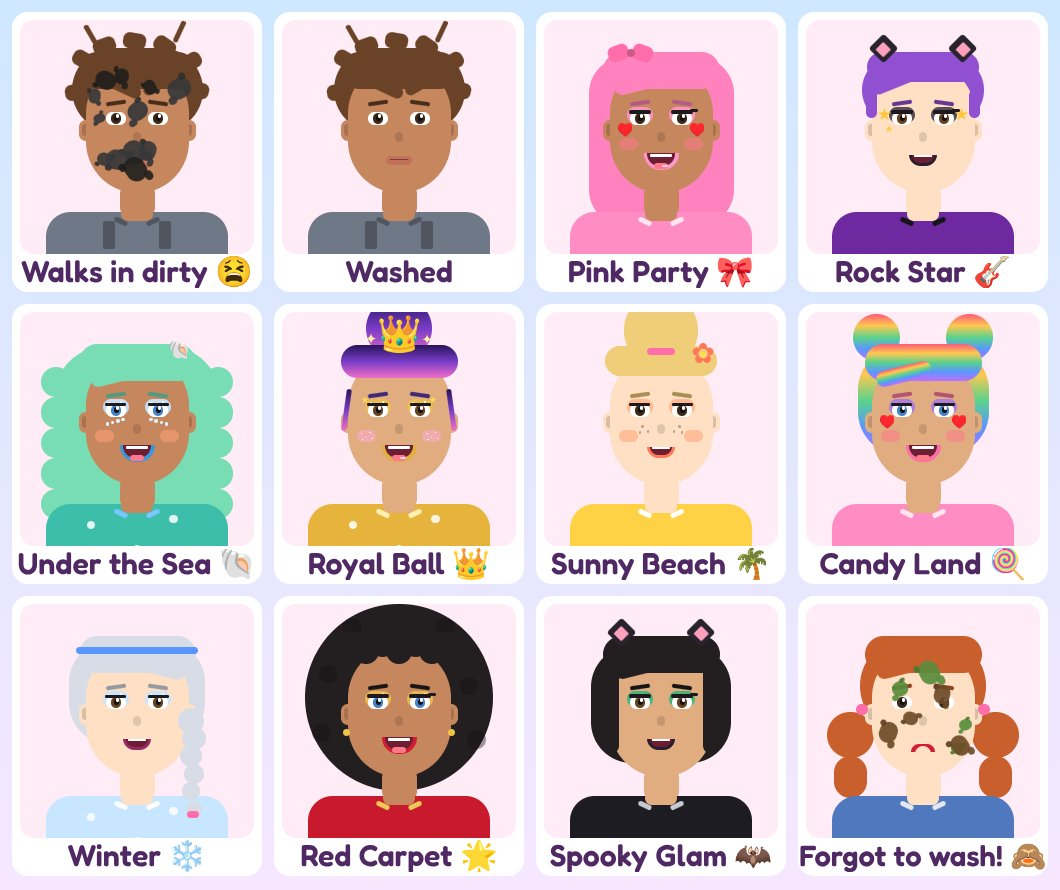
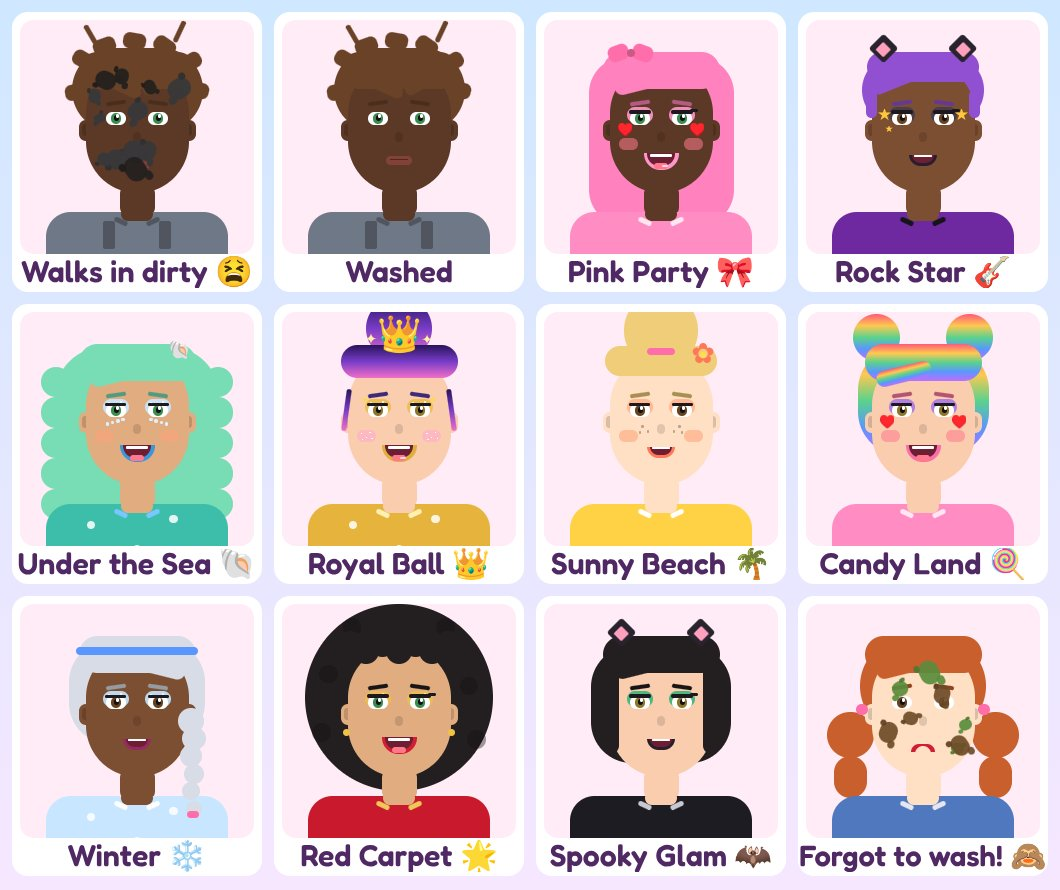
Glow Up Salon: weekly goal with prize clips, refreshed docs and screenshots
Claude-Session: https://claude.ai/code/session_017cAUGmngXjdPhrtqrqTn14

diff --git a/roblox/glow-up-salon/GAME_DESIGN.md b/roblox/glow-up-salon/GAME_DESIGN.md
@@ -1,18 +1,22 @@
 # 5 Minute Glow Up Salon: Game Design
 
-**Pitch:** Customers walk into your salon straight from their jobs at the shop, covered in grease, mud, paint and frosting. You get **5 minutes** to wash their face, do their hair and makeup, and dress them for the fashion show. Then they walk the runway, everyone cheers and votes, and the best stylist wins.
+**Pitch:** Customers walk into your salon straight from their jobs at the shop, covered in grease, mud, paint and frosting. You get **5 minutes** to wash their face, do their hair, makeup and nails, and dress them for the fashion show. Then they walk the runway, everyone cheers, and the best stylist wins.
 
-**Made for:** girls around 6–10. That means few words, big buttons, lots of feedback, and nothing scary or competitive in a mean way.
+**Made for:** girls around 6–10. That means few words, big buttons, lots of happy feedback, and nothing that shames a player in front of others.
 
 ![Looks](docs/face-preview.jpg)
 
-| Washing | Picking makeup | On a phone |
+| Washing | Makeup | Nails |
 |---|---|---|
-| ![](docs/screens/1-wash.jpg) | ![](docs/screens/2-makeup.jpg) | ![](docs/screens/3-phone.jpg) |
-
-| Runway (camera follows the client) | Winners' podium | Results |
-|---|---|---|
-| ![](docs/screens/4-runway.jpg) | ![](docs/screens/5-podium.jpg) | ![](docs/screens/6-results.jpg) |
+| ![](docs/screens/01-wash.jpg) | ![](docs/screens/02-makeup.jpg) | ![](docs/screens/03-nails.jpg) |
+| **Outfit colors & patterns** | **Halloween items** | **On a phone** |
+| ![](docs/screens/04-outfit-colors.jpg) | ![](docs/screens/05-halloween-items.jpg) | ![](docs/screens/06-phone.jpg) |
+| **Runway (camera follows)** | **Halloween runway** | **Christmas runway** |
+| ![](docs/screens/07-runway.jpg) | ![](docs/screens/08-halloween.jpg) | ![](docs/screens/09-christmas.jpg) |
+| **Podium** | **Results** | **Gift calendar** |
+| ![](docs/screens/10-podium.jpg) | ![](docs/screens/11-results.jpg) | ![](docs/screens/12-gift-calendar.jpg) |
+| **Look Book** | **Shop** | |
+| ![](docs/screens/13-lookbook.jpg) | ![](docs/screens/14-shop.jpg) | |
 
 *These pictures come from the play-test tool (`tools/playtest`), not Roblox Studio. In Roblox, lighting, fonts and 3D look a little different.*
 
@@ -20,36 +24,57 @@
 
 | Tori said | In the game |
 |---|---|
-| Makeup game | Makeup tab: 9 eyeshadows, 3 lash styles, 4 blushes and 9 lipsticks |
-| Do their hair / you get to do their hair too | Hair tab: 10 hairstyles + 11 hair colors. Clients show up with **messy** hair you have to fix |
-| They come in from the shop dirty, so they have to wash their face | Every client tells you where they've been ("I fixed cars at the auto shop all day. I'm SO greasy! 😫"). Pick 🧽 **Soap** and rub off the splats. ✨ pops when a splat comes off. Then 🚿 **Rinse** the bubbles (the game switches tools for you) |
-| Pay to get extra stuff | Coins you earn unlock new looks. Robux buys VIP items, 2x coins, runway effects and Super Soap |
-| Then you do a fashion show | Each client walks a 3D runway under a balloon arch, with your design on the big screen. The camera follows them, photographers flash, and everyone taps emoji cheers and votes 1–5 stars |
+| Makeup game | 💄 Makeup tab: eyeshadow, lashes, blush, lipstick. Plus a 💅 Nails station with polish and nail art |
+| Do their hair / you get to do their hair too | 💇 11 hairstyles and 20 hair colors (some only during holidays). Clients show up with **messy** hair you have to fix |
+| They come in from the shop dirty, so they have to wash their face | Every client says where they've been ("I fixed cars at the auto shop all day. I'm SO greasy! 😫"). Rub the splats off with 🧽 Soap (✨ pops), then 🚿 Rinse the bubbles. The game switches tools for you |
+| Pay to get extra stuff | Coins you earn unlock looks for free. Robux packs add extra looks and fun effects. Nothing paid is needed to win |
+| Then you do a fashion show | Clients walk a 3D runway under a balloon arch. The camera follows them, photographers flash, and everyone taps emoji cheers and hearts |
 | You only get 5 minutes to do everything | A "5 minutes! GO! 💨" splash, then one timer for the whole makeover. It turns red and pulses in the last 30 seconds |
 
 ## What makes it fun (and easy for little kids)
 
-- **The client reacts.** Their mouth changes from a frown 😫 (dirty) to a smile, then a big grin 😁. They talk in a speech bubble: "That tickles!", "Perfect for Pink Party! 😍", "This is my BEST look EVER! 💖" (with confetti).
-- **Happy hearts 💖💖💖🤍🤍** under the face fill up as the look gets better. It's the same score the judges use, so kids learn what works.
-- **⭐ theme stars** on items that match the show's theme. No reading needed.
-- **Glowing "do this next" tab**, plus a checklist (🧼 💇 💄 👗) that turns green and can be tapped to jump to that step.
-- **Every look is a preview.** Item cards show the client's own face wearing that item.
-- **Friendly results.** Everyone gets a pop-up ("✨ Great job!", "🏆 You WON!"), coins and tips from the judges, never a "you lost".
-- **Safe social play.** Players cheer with fixed emoji (😍👏🔥✨💖) and star votes. There's no typing.
-- **Coming back pays off.** A 🎁 daily gift (bigger for days in a row) and stylist levels (Newbie Stylist → Rising Star → Pro Stylist → Glam Queen → Superstar → Legendary), with a confetti pop-up when you level up.
+- **The client reacts.** Their mouth goes from a frown 😫 (dirty) to a smile, then a big grin 😁. They talk ("That tickles!", "Perfect for Halloween Party! 😍"). The **Happy 💖💖💖🤍🤍** meter fills up as the look gets better.
+- **⭐ theme stars** mark items that match the show's theme, so kids don't need to read. Every theme can be matched with free items (the play-test checks this).
+- **A glowing "do this next" tab**, plus a checklist that can be tapped.
+- **Every card is a preview:** the client's own face wearing that item.
+- **🎨 Pick your own outfit color** (20 colors) and a pattern (dots, stripes, hearts, stars, flowers).
+- **💅 Nails:** the left panel turns into the client's hand. Each nail sparkles as it's painted.
+- **Kind by design:**
+  - Votes are 💖 / 💖💖 / 💖💖💖, so nobody can give 1 star.
+  - Everyone's client is shown washed and smiling on the big screen and podium. The judges' tips are private.
+  - Results list the top 3 plus your own look, never a public last place.
+- **Safe social play:** emoji cheers and heart votes only. There's no typing.
+- **Something to do while waiting:** "🌸 Spritz perfume!" makes the client giggle.
+
+## Reasons to come back
+
+- **🎁 7-day gift calendar:** coins on days 1–6 and a special accessory on day 7 (Golden Bow, Rainbow Headband, Pearl Earrings). Missing a day **pauses** it and never resets it.
+- **🎯 Weekly goal:** play 5 shows in a week to win a hair clip (🍀 🦄 🌈 🍓).
+- **⭐ Stylist levels** (every 5 stars). Some levels unlock items: Butterfly Clip (Lv 2), Cotton Candy hair (Lv 3), Bubblegum Gloss (Lv 4), Star Dress (Lv 5), Rainbow Shimmer (Lv 6), Star Halo (Lv 8). Titles go from Newbie Stylist to Legendary Stylist.
+- **💞 Regular clients:** clients you've styled come back ("Hi again! It's me, Amara!"). Their 3rd, 5th and 10th visits make them best friends and give bonus coins.
+- **📖 Look Book:** your last 24 finished looks are saved, like a photo album.
+- **🎃 🍂 🎄 Holiday events** (turn on by date):
+
+  | Event | Dates |
+  |---|---|
+  | Halloween | Oct 10 – Nov 2 |
+  | Harvest Festival | Nov 3 – 30 |
+  | Christmas | Dec 1 – 31 |
+
+  Each event brings:
+  - a holiday fashion-show theme (about half the rounds)
+  - about 12 limited items: some free, some for coins, and VIP gowns
+  - holiday client stories (pumpkin goo, pie flour, gingerbread)
+  - decorations and lighting: pumpkins, bats and ghosts; autumn trees and hay bales; Christmas trees, presents and falling snow
+
+  Items a player unlocked during an event are theirs to keep.
 
 ## Round loop (everyone in the server plays together)
 
-1. **Intermission (20s):** the next theme and a 5-step how-to card. Players can browse the shop.
-2. **Makeover (5:00):** each player gets their own dirty client.
-   - 🧼 **Wash:** rub dirt with Soap, then Rinse the bubbles
-   - 💇 **Hair:** style + color
-   - 💄 **Makeup:** eyeshadow, lashes, blush, lipstick
-   - 👗 **Outfit:** pick something that fits the theme (dresses get a skirt on the runway)
-   - ✨ **Extras:** face art + accessory
-   - If every stylist taps **I'm Done!**, the show starts early.
-3. **Fashion Show (~9s per look):** the client walks the runway and twirls. Everyone else gives 1–5 stars (+2 coins for voting), and anyone can tap emoji cheers that float up on every screen.
-4. **Results (15s):** the top 3 stand on the podium. Each player gets a pop-up with their stars, judge tips and coins.
+1. **Intermission (20s):** next theme, event banner, weekly goal and a 5-step how-to card. Players can open the Shop or Look Book.
+2. **Makeover (5:00):** each player gets their own dirty client, with tabs 🧼 Wash, 💇 Hair, 💄 Makeup, 💅 Nails, 👗 Outfit, ✨ Extras. If every stylist taps **I'm Done!**, the show starts early.
+3. **Fashion Show (~9s per look):** the client walks the runway and twirls. Other players vote with hearts (+2 coins for voting), and anyone can tap emoji cheers.
+4. **Results (15s):** the top 3 stand on the podium. Each player gets a private card with their stars, coins and judge tips, plus a confetti pop-up.
 
 ## Scoring (out of 5 stars)
 
@@ -60,42 +85,40 @@
 | Hair color matches theme | 0.5 |
 | Makeup applied (4 kinds) | 1 |
 | Makeup colors match theme | 0.75 |
-| Outfit chosen / matches theme | 0.5 / 0.5 |
-| Bonus: face art, accessory, accessory matches | up to 0.75 |
+| Outfit chosen / outfit or 🎨 color matches theme | 0.5 / 0.5 |
+| Bonus: nails painted / nails match, face art, accessory, accessory matches | up to 1.25 |
 
-Forgot to rinse the bubbles? −0.2. Final = average of judges and player votes (judges only if no one voted).
+Forgot to rinse the bubbles? −0.2. The final score is the average of the judges and the players' heart votes, or the judges alone if nobody voted.
 
-## Coins & levels (free to earn)
+## Coins
 
-- Start with 100 coins, plus a daily gift of 50 coins (+10 for each day in a row, up to +50)
-- Every show: 20 + 10 per star, +10 for a spotless wash
-- Placing (2+ players): 1st +50, 2nd +30, 3rd +15
-- Voting: +2 per look you rate
-- Every 5 stars earned = 1 stylist level
+- Start with 100. The gift calendar gives 30–80 coins a day.
+- Every show: 20 + 10 per star, +10 for a spotless wash.
+- Placing (2+ players): 1st +50, 2nd +30, 3rd +15.
+- +2 for each look you vote on. +25 when a regular becomes a best friend.
 
-About half the items are free from the start. The rest cost 30–150 coins, so a kid who plays a few rounds can unlock them without paying.
+About 170 items: 72 everyday items are free, 58 cost 30–150 coins, 21 come in Robux packs, and 35 are holiday items that come and go.
 
 ## Monetization (kid-friendly, follows Roblox rules)
 
-No loot boxes or random paid items. Every purchase shows exactly what you get, and nothing paid is needed to win.
+No loot boxes or random paid items. Every purchase shows exactly what you get, nothing paid speeds up or skips play, and every theme can be matched with free items.
 
 | Type | Item | What it does | Suggested price |
 |---|---|---|---|
-| Game Pass | 👑 VIP Glam Kit | Rainbow & Galaxy hair, Royal Updo, Mermaid Waves, Galaxy Glitter, Starry Lashes, Golden Glam lips, Rhinestones, Royal Crown, Golden Gala & Galaxy gowns, VIP badge on the runway | 199 R$ |
+| Game Pass | 👑 VIP Glam Kit | Rainbow & Galaxy hair, Royal Updo, Mermaid Waves, Galaxy Glitter, Starry Lashes, Golden Glam lips, Rainbow Chrome nails, Rhinestones, Royal Crown, Golden Gala & Galaxy gowns, holiday VIP gowns (Midnight Witch, Sugar Plum Fairy, Candy Cane hair), VIP badge on the runway | 199 R$ |
+| Game Pass | 👸 Princess Pack | Ice Ball Gown, Rose Gown, Princess Curls, Rose Gold hair, Princess Tiara, Pink Gems | 149 R$ |
 | Game Pass | 🪙 2x Coins | Double coins every show | 149 R$ |
 | Game Pass | 🌟 Runway Star | Confetti cannons + sparkles when your client walks | 99 R$ |
-| Dev Product | 🧼 Super Soap | Instantly cleans the face (saves time on the clock) | 15 R$ |
+| Game Pass | 🫧 Rainbow Bubbles | Washing makes rainbow bubbles (just for fun) | 49 R$ |
 | Dev Product | 💰 500 Coins | Coins | 49 R$ |
-| Dev Product | 💎 2000 Coins | Coins | 149 R$ |
 
-Super Soaps are saved if you aren't in a makeover when you buy one, so a purchase is never lost.
+New packs are easy to add: give items `pass = "PackName"` in `Catalog` and add the pass ID to `Config.GamePasses`. Good next packs are Mermaid Lagoon, Winter Princess and Halloween Costumes. Private servers (free or cheap) are great for sleepovers.
 
 ## Ideas for version 2
 
-- Nail painting station
-- More client stories and dirt types (glitter slime, ketchup, sunburn → aloe)
-- Seasonal themes (Halloween, Valentine's) with limited-time items
-- Private servers for friends / sleepovers
-- Leaderboard of most wins
-- Real 3D hair accessories on the runway models
-- Photo mode: save a picture of your best look
+- Co-op "Best Friend Mode": two stylists on one client
+- Your own salon to decorate with coins
+- Real 3D hair and dresses on the runway models (needs uploaded meshes)
+- Voice clips for the client ("Ewww!", "I LOVE it!") for kids who can't read yet
+- Photo mode: save a picture card with frames
+- Client of the Day requests ("Make me look like a mermaid!")

diff --git a/roblox/glow-up-salon/README.md b/roblox/glow-up-salon/README.md
@@ -21,6 +21,8 @@ The salon and runway build themselves when the game starts. In Studio you automa
 
 **Coins look high in Studio?** Studio pretends you own the 2x Coins pass too, so coins double.
 
+**Want to see the Halloween, Harvest Festival or Christmas event before its date?** Set `Config.FORCE_EVENT = "halloween"` (or `"thanksgiving"`, `"christmas"`) and press Play. Set it back to `nil` before publishing; events then turn on by date automatically.
+
 **Want the round shorter while testing?** Open `ReplicatedStorage > Shared > Config` and change `MAKEOVER_SECONDS` (it's `5 * 60`).
 
 ## 2. Put it on Roblox so anyone can play
@@ -39,19 +41,19 @@ On Roblox, nobody "downloads" a game. Once it's **public**, anyone can find it a
 
    **Passes** (one-time purchases that last forever):
 
-   | Name | Suggested price |
-   |---|---|
-   | VIP Glam Kit | 199 |
-   | 2x Coins | 149 |
-   | Runway Star | 99 |
+   | Name | Config key | Suggested price |
+   |---|---|---|
+   | VIP Glam Kit | `VIP` | 199 |
+   | Princess Pack | `Princess` | 149 |
+   | 2x Coins | `DoubleCoins` | 149 |
+   | Runway Star | `RunwayStar` | 99 |
+   | Rainbow Bubbles | `RainbowBubbles` | 49 |
 
    **Developer Products** (can be bought again and again):
 
-   | Name | Suggested price |
-   |---|---|
-   | Super Soap | 15 |
-   | 500 Coins | 49 |
-   | 2000 Coins | 149 |
+   | Name | Config key | Suggested price |
+   |---|---|---|
+   | 500 Coins | `CoinsSmall` | 49 |
 
 2. Copy each item's **ID number** into `ReplicatedStorage > Shared > Config` (`Config.GamePasses` and `Config.DevProducts`).
 3. **File → Publish to Roblox** again.
@@ -60,7 +62,20 @@ Until an ID is filled in, that item shows **"Soon!"** in the shop, so it's safe 
 
 ## 4. Add sounds and music (optional)
 
-The game is quiet until you pick sounds. In Studio, open **Toolbox → Audio** (or the Creator Store), find sounds you like, then right-click → **Copy Asset ID**. Paste each one into `Config.Sounds`:
+**Do this one!** Sound makes the biggest difference for young kids, and the game is quiet until you pick sounds. Roblox's Creator Store has thousands of free sounds and licensed music that any game may use.
+
+| Config key | Search the Toolbox for |
+|---|---|
+| `Click` | "pop", "bubble pop" |
+| `Pop` | "cute pop", "boing" |
+| `Scrub` | "scrub", "bubbles" |
+| `Sparkle` | "sparkle", "chime", "twinkle" |
+| `Cheer` | "kids cheer", "yay", "applause" |
+| `Camera` | "camera shutter" |
+| `MakeoverMusic` | music: "happy", "pop", "cute" |
+| `RunwayMusic` | music: "fashion", "runway", "dance" |
+
+ In Studio, open **Toolbox → Audio** (or the Creator Store), find sounds you like, then right-click → **Copy Asset ID**. Paste each one into `Config.Sounds`:
 
 ```lua
 Config.Sounds = {
@@ -83,7 +98,8 @@ All the code is in Studio under:
 |---|---|
 | `ReplicatedStorage > Shared > Config` | Timer, coin rewards, Game Pass / product IDs |
 | `ReplicatedStorage > Shared > Catalog` | **Every hairstyle, color, makeup, outfit and theme.** Add new ones here: name, color, price, tags |
-| `ReplicatedStorage > Shared > Clients` | Customer names, skin tones, and "came from the shop" stories |
+| `ReplicatedStorage > Shared > Clients` | Customer names, skin tones, and "came from the shop" stories (plus holiday stories) |
+| `ReplicatedStorage > Shared > Events` | Holiday event dates (Halloween, Harvest Festival, Christmas) |
 | `ReplicatedStorage > Shared > LookRenderer` | How faces, hair and outfits are drawn |
 | `ReplicatedStorage > Shared > Scoring` | How the judges give stars |
 | `ServerScriptService > Server` | Round timer, fashion show, saving, shop |
@@ -95,7 +111,12 @@ All the code is in Studio under:
 item({ id = "lip_coral", name = "Coral", color = rgb(255, 120, 90), tags = { "bright" } }),
 ```
 
-and change the `id`, `name` and color. Add `price = 50` to make it cost coins, or `pass = "VIP"` to make it VIP-only.
+and change the `id`, `name` and color. Then add one of these if you want:
+
+- `price = 50` to make it cost coins
+- `pass = "VIP"` to make it VIP-only
+- `level = 4` to unlock it at stylist level 4
+- `event = "christmas"` to make it a holiday item
 
 ### For developers (optional): edit with VS Code + Rojo
 
@@ -110,4 +131,4 @@ If you edit scripts directly in Studio instead, save from Studio. `GlowUpSalon.r
 
 ### Play-test without Studio (optional)
 
-`tools/playtest/run.sh` runs the real game scripts in a small fake Roblox engine: a server and two players, a full round (wash, styling, shop, runway, voting, results), purchases, leaving and rejoining, and 15 minutes of rounds. It fails if any script errors. `./run.sh --screens` also saves screenshots and 3D renders (needs Node + Playwright). It's a safety net, not a replacement for pressing Play in Studio.
+`tools/playtest/run.sh` runs the real game scripts in a small fake Roblox engine: a server and two players, a full round (wash, styling, nails, shop, runway, voting, results), purchases, cheating attempts, leaving and rejoining, all three holiday events, the weekly goal, and half an hour of rounds. It also checks that every theme can be matched with free items. It fails if any script errors. `./run.sh --screens` also saves screenshots and 3D renders (needs Node + Playwright). It's a safety net, not a replacement for pressing Play in Studio.
